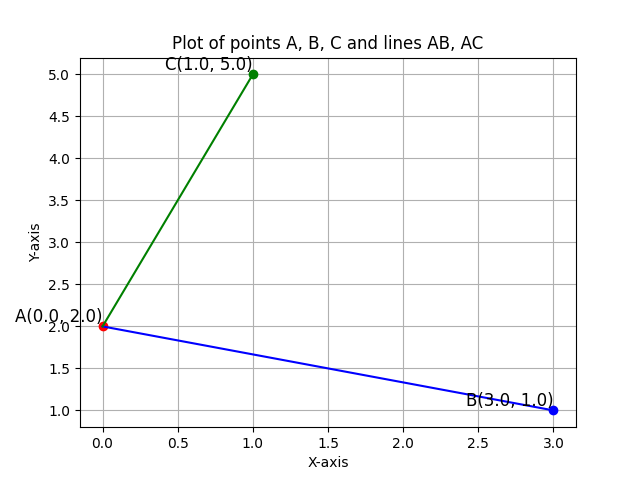
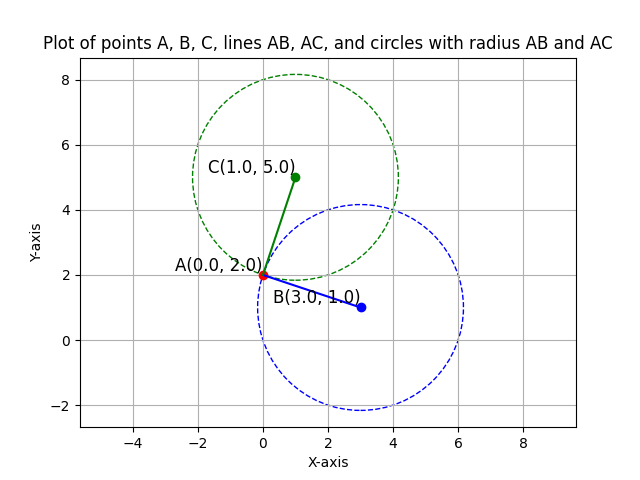
Matgeo3

diff --git a/matgeo-3/codes/plot.py b/matgeo-3/codes/plot.py
@@ -1,4 +1,5 @@
 import matplotlib.pyplot as plt
+import math
 
 # Read coordinates from the text file
 with open("output.txt", "r") as file:
@@ -14,7 +15,15 @@ A = (A_coords[0], A_coords[1])
 B = (B_coords[0], B_coords[1])
 C = (C_coords[0], C_coords[1])
 
-# Plotting points
+# Function to calculate the distance between two points
+def calculate_distance(p1, p2):
+    return math.sqrt((p1[0] - p2[0])**2 + (p1[1] - p2[1])**2)
+
+# Calculate distances AB and AC
+AB = calculate_distance(A, B)
+AC = calculate_distance(A, C)
+
+# Plotting points A, B, and C
 plt.plot(*A, 'ro')  # A is red
 plt.plot(*B, 'bo')  # B is blue
 plt.plot(*C, 'go')  # C is green
@@ -28,12 +37,23 @@ plt.text(C[0], C[1], f"C{C}", fontsize=12, ha='right', va='bottom')
 plt.plot([A[0], B[0]], [A[1], B[1]], 'b-')  # Line AB in blue
 plt.plot([A[0], C[0]], [A[1], C[1]], 'g-')  # Line AC in green
 
+# Plot circles with radius AB at B and radius AC at C
+circle_B = plt.Circle(B, AB, color='b', fill=False, linestyle='--', label=f"Circle at B with radius AB = {AB:.2f}")
+circle_C = plt.Circle(C, AC, color='g', fill=False, linestyle='--', label=f"Circle at C with radius AC = {AC:.2f}")
+
+# Adding circles to the plot
+plt.gca().add_patch(circle_B)
+plt.gca().add_patch(circle_C)
+
 # Adding labels and title
 plt.xlabel("X-axis")
 plt.ylabel("Y-axis")
-plt.title("Plot of points A, B, C and lines AB, AC")
+plt.title("Plot of points A, B, C, lines AB, AC, and circles with radius AB and AC")
 
-# Show plot with grid
+# Equal scaling and showing the grid
+plt.axis('equal')
 plt.grid(True)
+
+# Show plot
 plt.show()
 
